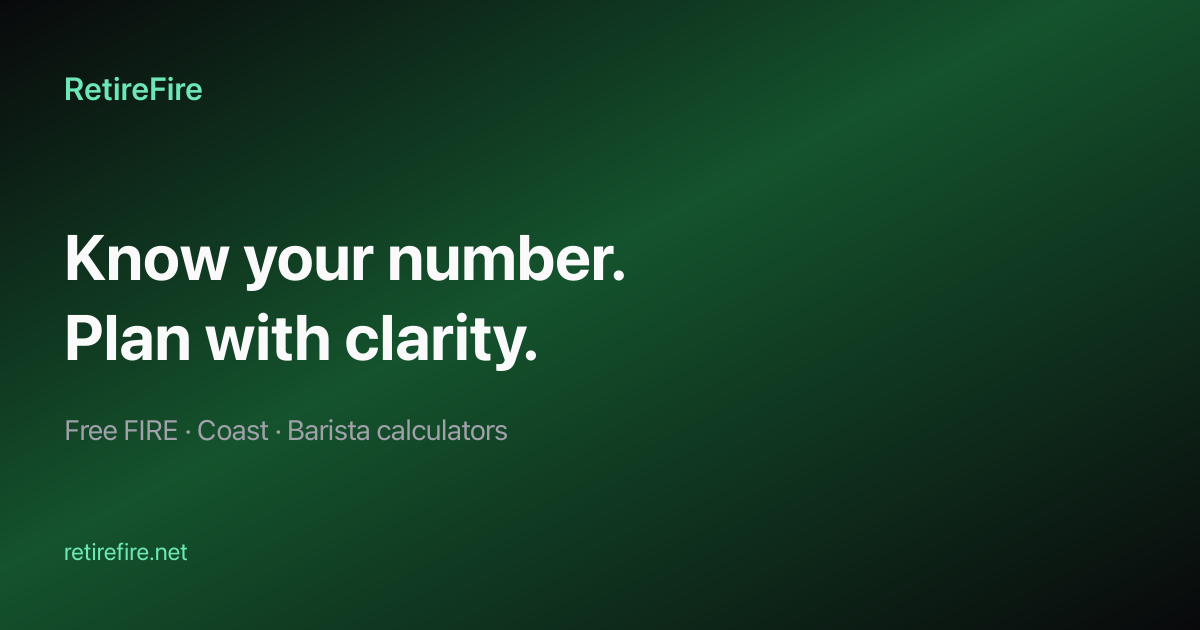
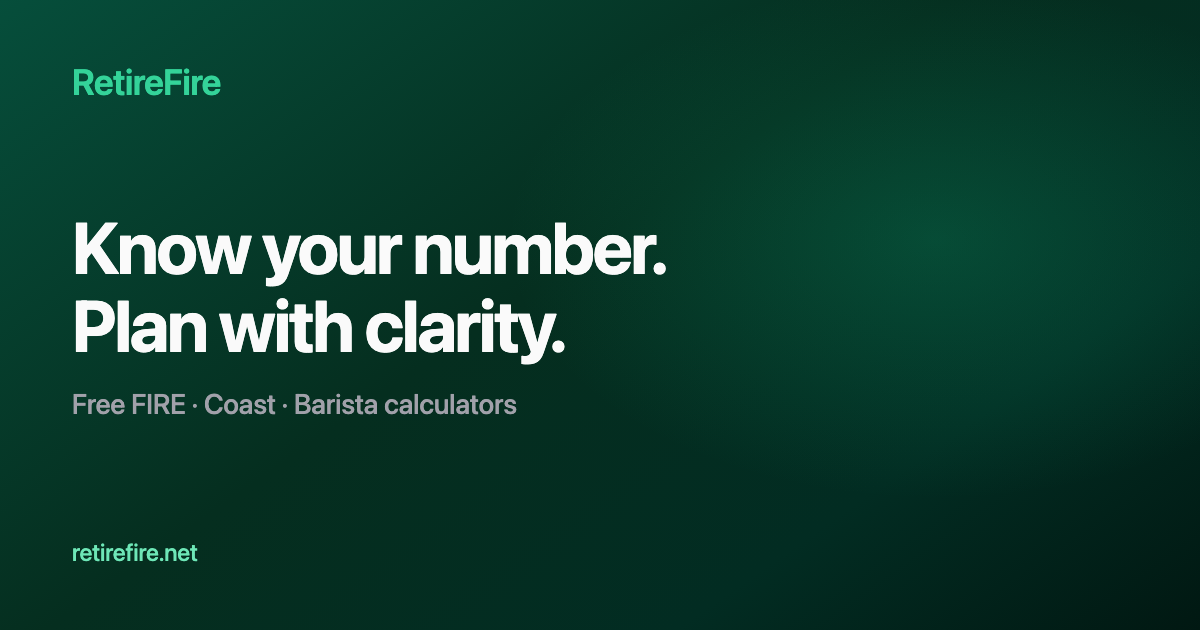
Improve SEO metadata and repository classification

Changed region(s): [[0.0, 0.0, 0.5858, 1.0], [0.74, 0.0, 1.0, 0.1508]]

diff --git a/scripts/og-card.html b/scripts/og-card.html
@@ -1,0 +1,93 @@
+<!DOCTYPE html>
+<html lang="en">
+  <head>
+    <meta charset="utf-8" />
+    <style>
+      * {
+        box-sizing: border-box;
+        margin: 0;
+        padding: 0;
+      }
+      html,
+      body {
+        width: 1200px;
+        height: 630px;
+        overflow: hidden;
+        background: #052e1f;
+        font-family:
+          ui-sans-serif,
+          system-ui,
+          -apple-system,
+          "Segoe UI",
+          Roboto,
+          Helvetica,
+          Arial,
+          sans-serif;
+      }
+      .card {
+        position: relative;
+        width: 1200px;
+        height: 630px;
+        padding: 64px 72px;
+        background:
+          radial-gradient(
+            ellipse 65% 75% at 78% 38%,
+            rgba(16, 185, 129, 0.22) 0%,
+            transparent 55%
+          ),
+          linear-gradient(145deg, #064e3b 0%, #052e1f 45%, #022c22 75%, #011812 100%);
+        color: #fafafa;
+        display: flex;
+        flex-direction: column;
+        justify-content: space-between;
+      }
+      /* ~15–20% larger than the original OG, not a redesign */
+      .logo {
+        font-size: 36px;
+        font-weight: 600;
+        letter-spacing: -0.02em;
+        color: #34d399;
+        line-height: 1;
+      }
+      .main {
+        flex: 1;
+        display: flex;
+        flex-direction: column;
+        justify-content: center;
+        gap: 22px;
+        padding: 8px 0 16px;
+      }
+      h1 {
+        font-size: 72px;
+        font-weight: 700;
+        letter-spacing: -0.03em;
+        line-height: 1.08;
+        color: #fafafa;
+        max-width: 920px;
+      }
+      .offer {
+        font-size: 28px;
+        font-weight: 500;
+        letter-spacing: -0.01em;
+        color: #a1a1aa;
+        line-height: 1.3;
+      }
+      .domain {
+        font-size: 24px;
+        font-weight: 500;
+        letter-spacing: -0.01em;
+        color: #6ee7b7;
+      }
+    </style>
+  </head>
+  <body>
+    <div class="card">
+      <div class="logo">RetireFire</div>
+      <div class="main">
+        <h1>Know your number.<br />Plan with clarity.</h1>
+        <p class="offer">Free FIRE · Coast · Barista calculators</p>
+      </div>
+      <div class="domain">retirefire.net</div>
+    </div>
+  </body>
+</html>

diff --git a/src/components/layout/Navbar.tsx b/src/components/layout/Navbar.tsx
@@ -25,7 +25,7 @@ export function Navbar() {
       <div className="mx-auto flex h-14 max-w-6xl items-center justify-between gap-4 px-4 sm:h-16 sm:px-6">
         <Link
           href="/"
-          className="group flex items-center gap-2.5 font-semibold tracking-tight text-zinc-50"
+          className="group flex items-center gap-2.5 text-[15px] font-semibold tracking-tight text-zinc-50 sm:text-base"
           onClick={() => setOpen(false)}
         >
           <span className="flex h-8 w-8 items-center justify-center rounded-lg bg-emerald-500/15 text-emerald-400 ring-1 ring-emerald-500/30 transition group-hover:bg-emerald-500/25">

diff --git a/src/components/layout/Footer.tsx b/src/components/layout/Footer.tsx
@@ -10,7 +10,7 @@ export function Footer() {
       <div className="mx-auto max-w-6xl px-4 py-10 sm:px-6">
         <div className="flex flex-col gap-8 sm:flex-row sm:items-start sm:justify-between">
           <div className="max-w-sm">
-            <div className="flex items-center gap-2 font-semibold text-zinc-100">
+            <div className="flex items-center gap-2 text-base font-semibold text-zinc-100">
               <Flame className="h-4 w-4 text-emerald-400" aria-hidden />
               {SITE.name}
             </div>

diff --git a/src/components/ui/pro-teaser.tsx b/src/components/ui/pro-teaser.tsx
@@ -17,7 +17,7 @@ export function ProTeaserStrip({
   return (
     <div
       className={cn(
-        "flex flex-wrap items-center gap-2 rounded-xl bg-zinc-950/50 px-3 py-2 text-[11px] leading-snug ring-1 ring-zinc-800",
+        "flex flex-wrap items-center gap-2 rounded-xl bg-zinc-950/50 px-3 py-2 text-xs leading-snug ring-1 ring-zinc-800",
         className,
       )}
     >

diff --git a/docs/reports/2026-W30.md b/docs/reports/2026-W30.md
@@ -1,7 +1,7 @@
 # Weekly Metrics Report — 2026-W30 (Week of 2026-07-21)
 
-**Phase:** Tool + Content (Phase 2 complete offline; deploy pending)  
-**Mode:** Autonomous offline execution — product, content, growth assets ready
+**Phase:** Tool + Content (Phase 2 shipped to production)  
+**Mode:** Production live; user GSC + social next; offline assets ready
 
 ---
 
@@ -9,26 +9,27 @@
 
 | Metric | This week | Prior (W29) | Notes |
 |--------|-----------|-------------|-------|
-| Sessions / pageviews | *Pending user Vercel/GSC* | Pending | Need production deploy of 8 local commits |
-| Calculator events | Code live in repo | Hooks shipped | `share_link_copy`, `csv_export`, `stress_test_run` |
-| Content | 14+ pillars; W1–6 calendar done | 2 pillars | See blog `posts.ts` |
+| Sessions / pageviews | *Pending GSC* | Pending | Production live; Vercel Analytics available in dashboard |
+| Calculator events | Live on retirefire.net | Hooks shipped | `share_link_copy`, `csv_export`, `stress_test_run` |
+| Content | 14+ pillars; W1–6 calendar done | 2 pillars | Live via Vercel Git deploy |
 | Social | Wave-2 batch drafted | Foundation + stress launch | Accounts need user claim |
-| Product | Stress test, A/B, Pro labels, print/PDF | Approach + CSV | Ahead of origin by 8+ commits |
-| Outreach | Wave-2 pitch pack | 30-day list | Send only after deploy |
+| Product | Stress test, A/B, Pro labels, print/PDF | Approach + CSV | **Deployed** (Git: `frobbmedia-creator/retirefire`) |
+| Outreach | Wave-2 pitch pack | 30-day list | Ready to send after GSC/social |
 
 ### 2. What worked
 
-- Differentiator shipped offline: free 1k-path MC on Coast/Years, age tables, sensitivity, scenario A/B.
+- Differentiator shipped and **live**: free 1k-path MC on Coast/Years, age tables, sensitivity, scenario A/B.
 - Content engine hit 8–12 piece goal early (calendar W1–6 complete).
 - Integrity maintained: educational stress-test framing, free-core promise, no dark patterns on Pro teasers.
 - Lead magnets without email gate: printable checklist + sequence guide.
+- **Vercel Git auto-deploy** working on correct repo `frobbmedia-creator/retirefire` (trigger `0eba0bd`).
 
 ### 3. What lagged
 
-- **Production deploy** still blocked on user `git push` / Vercel.
+- ~~Production deploy~~ **Done.**
 - GSC, social handles, optional GA4/Plausible not user-completed.
-- No live traffic or GSC keyword movement to report.
-- Outreach not sent (correct — avoid pitching URLs not yet deployed).
+- No GSC keyword movement to report until verification + sitemap.
+- Outreach not sent yet (ready after GSC + social pin).
 
 ### 4. Content & social shipped (assets this cycle)
 
@@ -52,9 +53,9 @@
 
 ### 6. Keyword movement
 
-*Pending Search Console verification + deploy of new URLs.*
+*Pending Search Console verification.* Sitemap live: `https://retirefire.net/sitemap.xml` (HTTP 200).
 
-**Priority URLs to request indexing after deploy:**
+**Priority URLs to request indexing:**
 
 1. `/`  
 2. `/calculators/coast-fire`  
@@ -66,13 +67,13 @@
 
 ### 7. Three recommended actions
 
-1. **User:** `git push origin main` (or approve push) so Vercel deploys ~8 commits.  
-2. **User:** Verify GSC + submit sitemap; request indexing on priority URLs above.  
-3. **User:** Claim X + LinkedIn; pin Coast/stress or “stop saving” thread from social docs; send ≤5 wave-2 pitches after deploy.
+1. **User (now):** Google Search Console — verify + submit sitemap + request indexing (see `19-launch-checklist-user.md` §1).  
+2. **User (same day):** Claim X; paste bio; post + pin “stop saving” thread (`19` §2).  
+3. **After GSC/social:** Optional Show HN (`18-show-hn-launch.md`); send ≤5 wave-2 outreach pitches.
 
 ### 8. Blockers needing user
 
-- [ ] Push / deploy latest main  
+- [x] Push / deploy latest main (Vercel Git on `retirefire`)  
 - [ ] GSC DNS verification + sitemap  
 - [ ] Social account ownership + first posts  
 - [ ] Optional: GA4 / Plausible keys  

diff --git a/docs/growth/00-MASTER-TRACKER.md b/docs/growth/00-MASTER-TRACKER.md
@@ -17,7 +17,7 @@
 |------|--------|-------|
 | 1.1 Analytics & measurement | `[~]` | Vercel Analytics live. GA4/GSC/Plausible setup guide shipped. Event hooks in code. User must complete GSC DNS + optional GA4/Plausible keys. |
 | 1.2 Competitor & keyword baseline | `[x]` | See `01-competitor-keyword-baseline.md` |
-| 1.3 Site polish & authority | `[x]` | Approach, hero, hub, resources, breadcrumbs, FAQ — offline complete. Deploy pending. |
+| 1.3 Site polish & authority | `[x]` | Approach, hero, hub, resources, breadcrumbs, FAQ — **live on production**. |
 | 1.4 Social foundation | `[x]` | Profiles copy + first 10 posts + 30-day system in `03-social-foundation.md` |
 | Content wave 1 outlines | `[x]` | Calendar + 2 pillar drafts in content docs |
 
@@ -27,9 +27,9 @@
 - [x] Authority / Approach page written
 - [x] Social profiles + first posts drafted
 - [x] First content pieces outlined/drafted
-- [ ] User: GSC verified + sitemap submitted (access required)
-- [ ] User: Social accounts live with copy applied
-- [ ] Deploy Phase 1 code to production
+- [x] User: GSC verified + sitemap submitted (homepage + Coast indexed requested)
+- [~] User: Social — bio + site link done; thread + pin next
+- [x] Deploy Phase 1–2 code to production (Vercel Git → `frobbmedia-creator/retirefire`)
 
 ---
 
@@ -65,11 +65,11 @@
 
 ## User action required (only when blocked)
 
-1. **Google Search Console** — verify domain DNS, submit `https://retirefire.net/sitemap.xml`
-2. **Optional:** create GA4 property + Plausible site; add env vars (see analytics guide)
-3. **Social:** create/claim X + LinkedIn pages; paste bios from social doc
+1. ~~**Google Search Console**~~ In progress — property live, sitemap in, homepage + Coast requested  
+2. **Social:** create/claim X + LinkedIn; paste bio + pin thread (`19-launch-checklist-user.md` §2) (**next after a few more URL requests**)
+3. **Optional:** create GA4 property + Plausible site; add env vars (see analytics guide)
 4. **Later:** Stripe account + final pricing approval
-5. **Deploy:** merge/push Phase 1 commits if not auto-deployed
+5. ~~**Deploy**~~ Done — Vercel Git on `frobbmedia-creator/retirefire`; production auto-deploys from `main`
 
 ---
 
